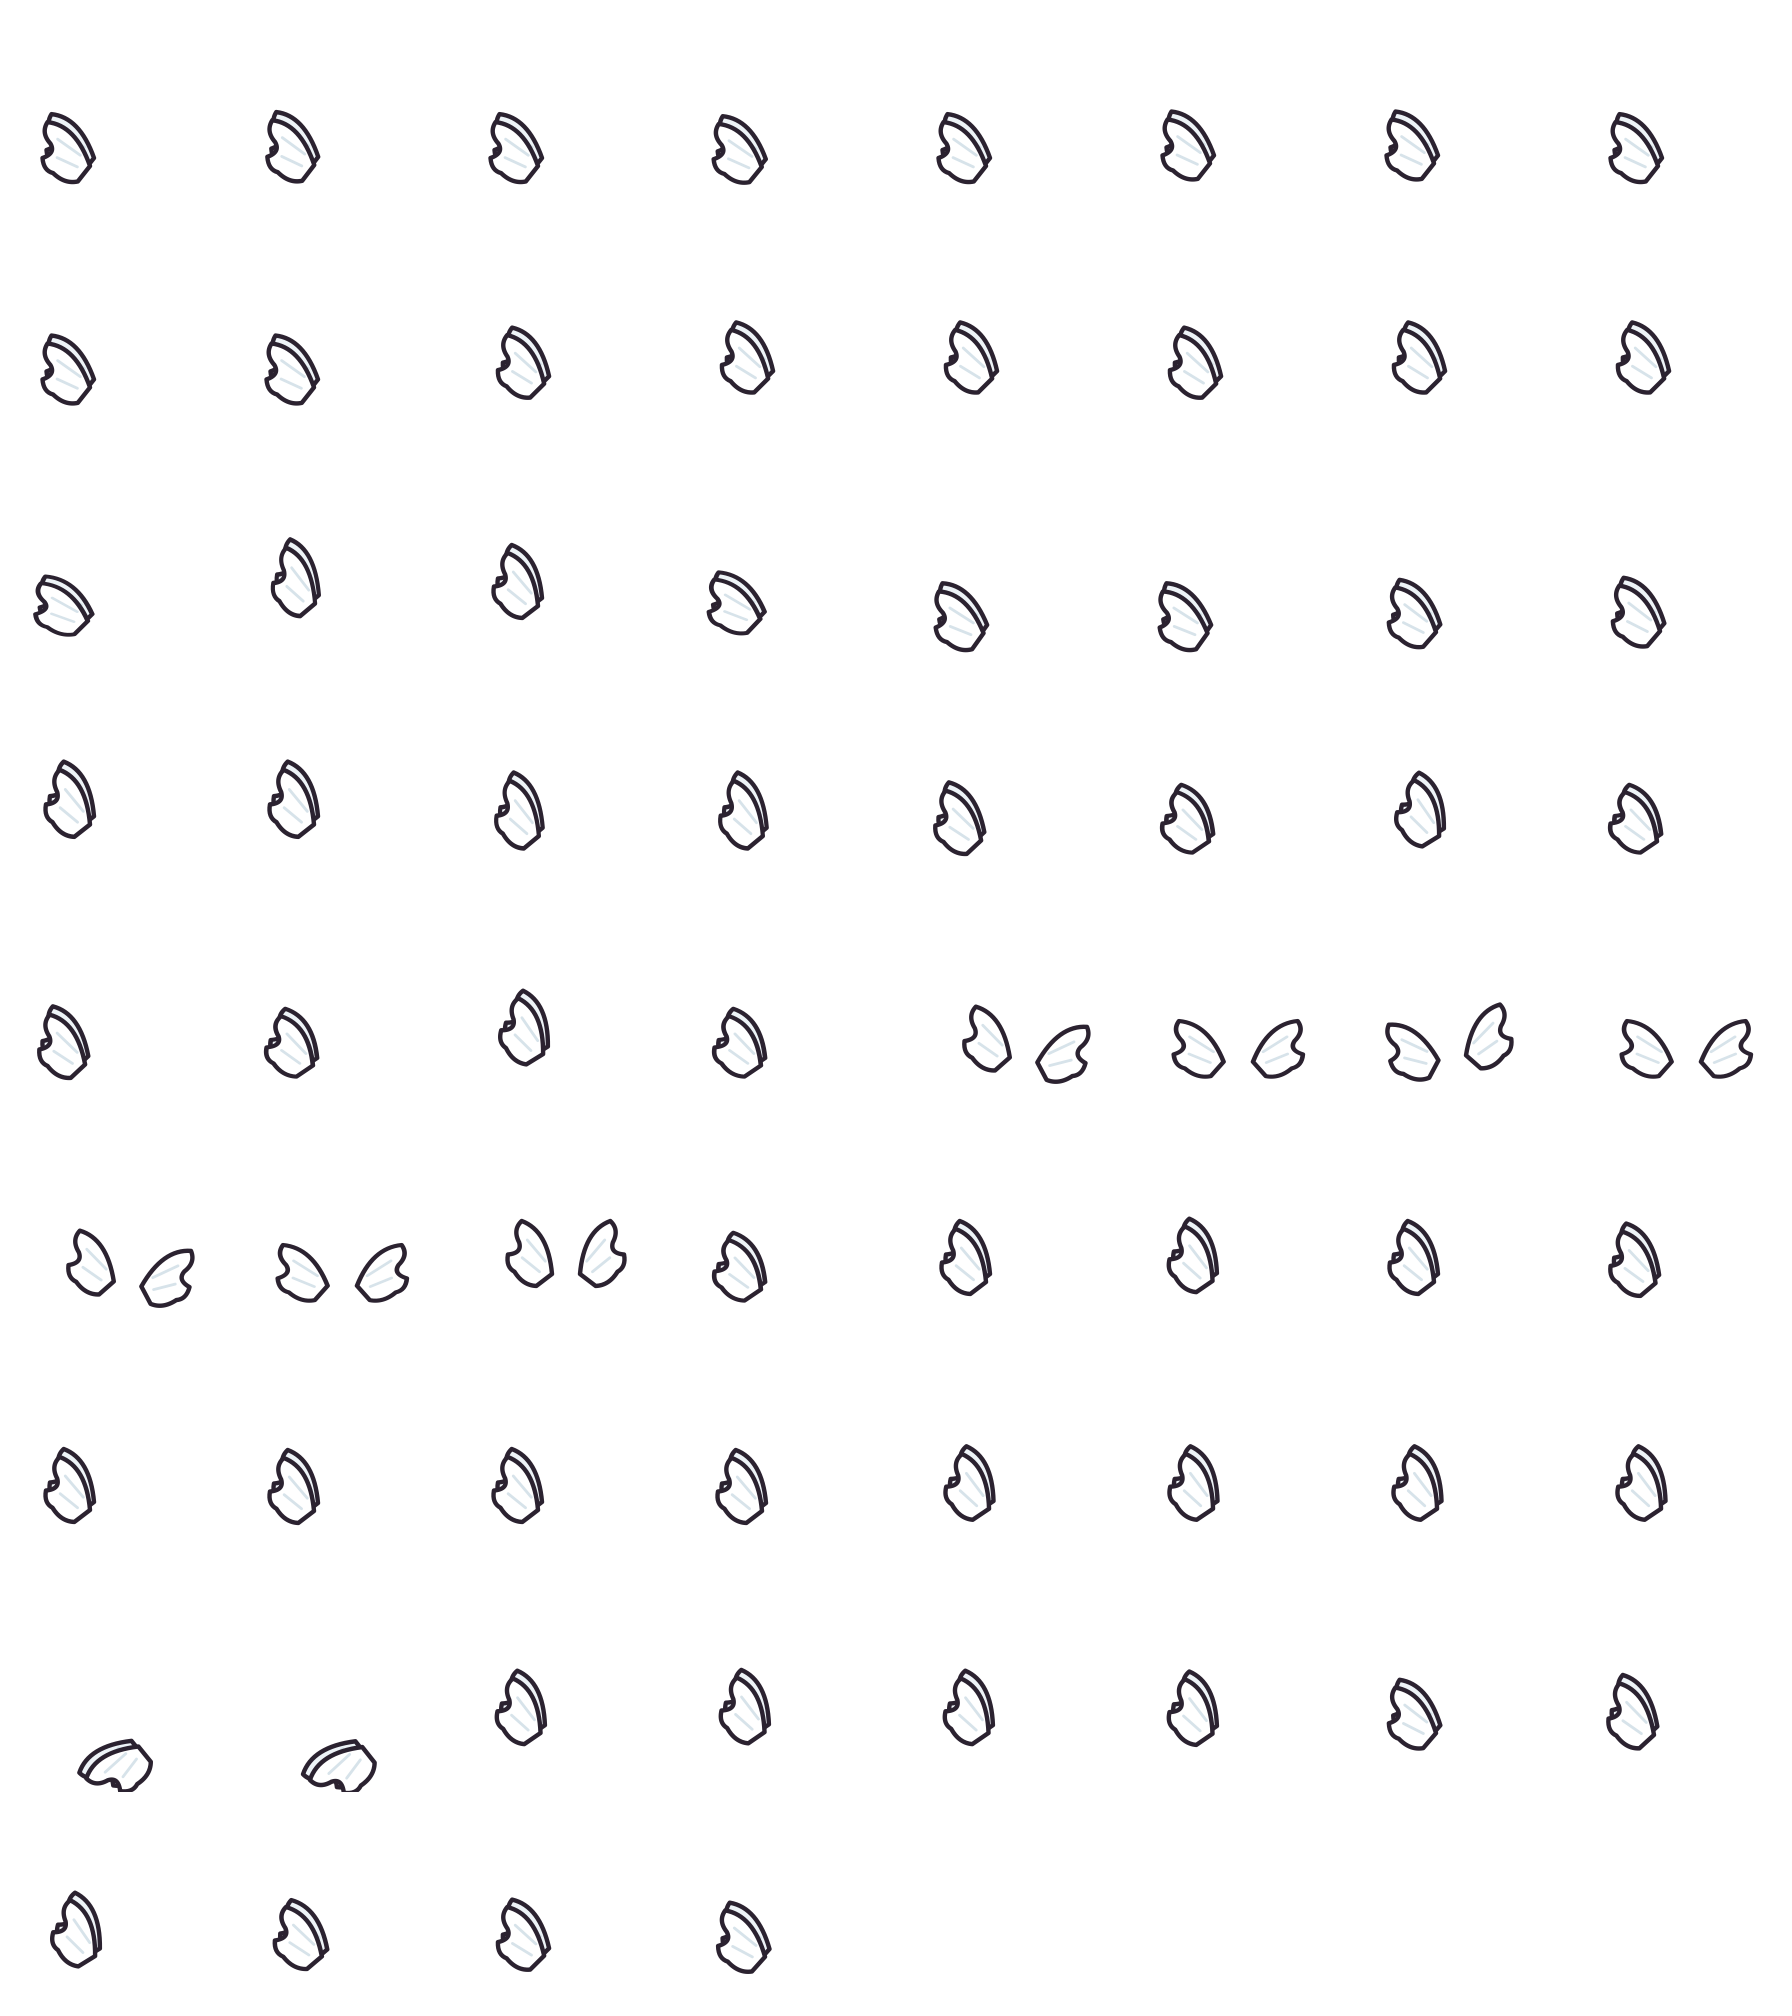
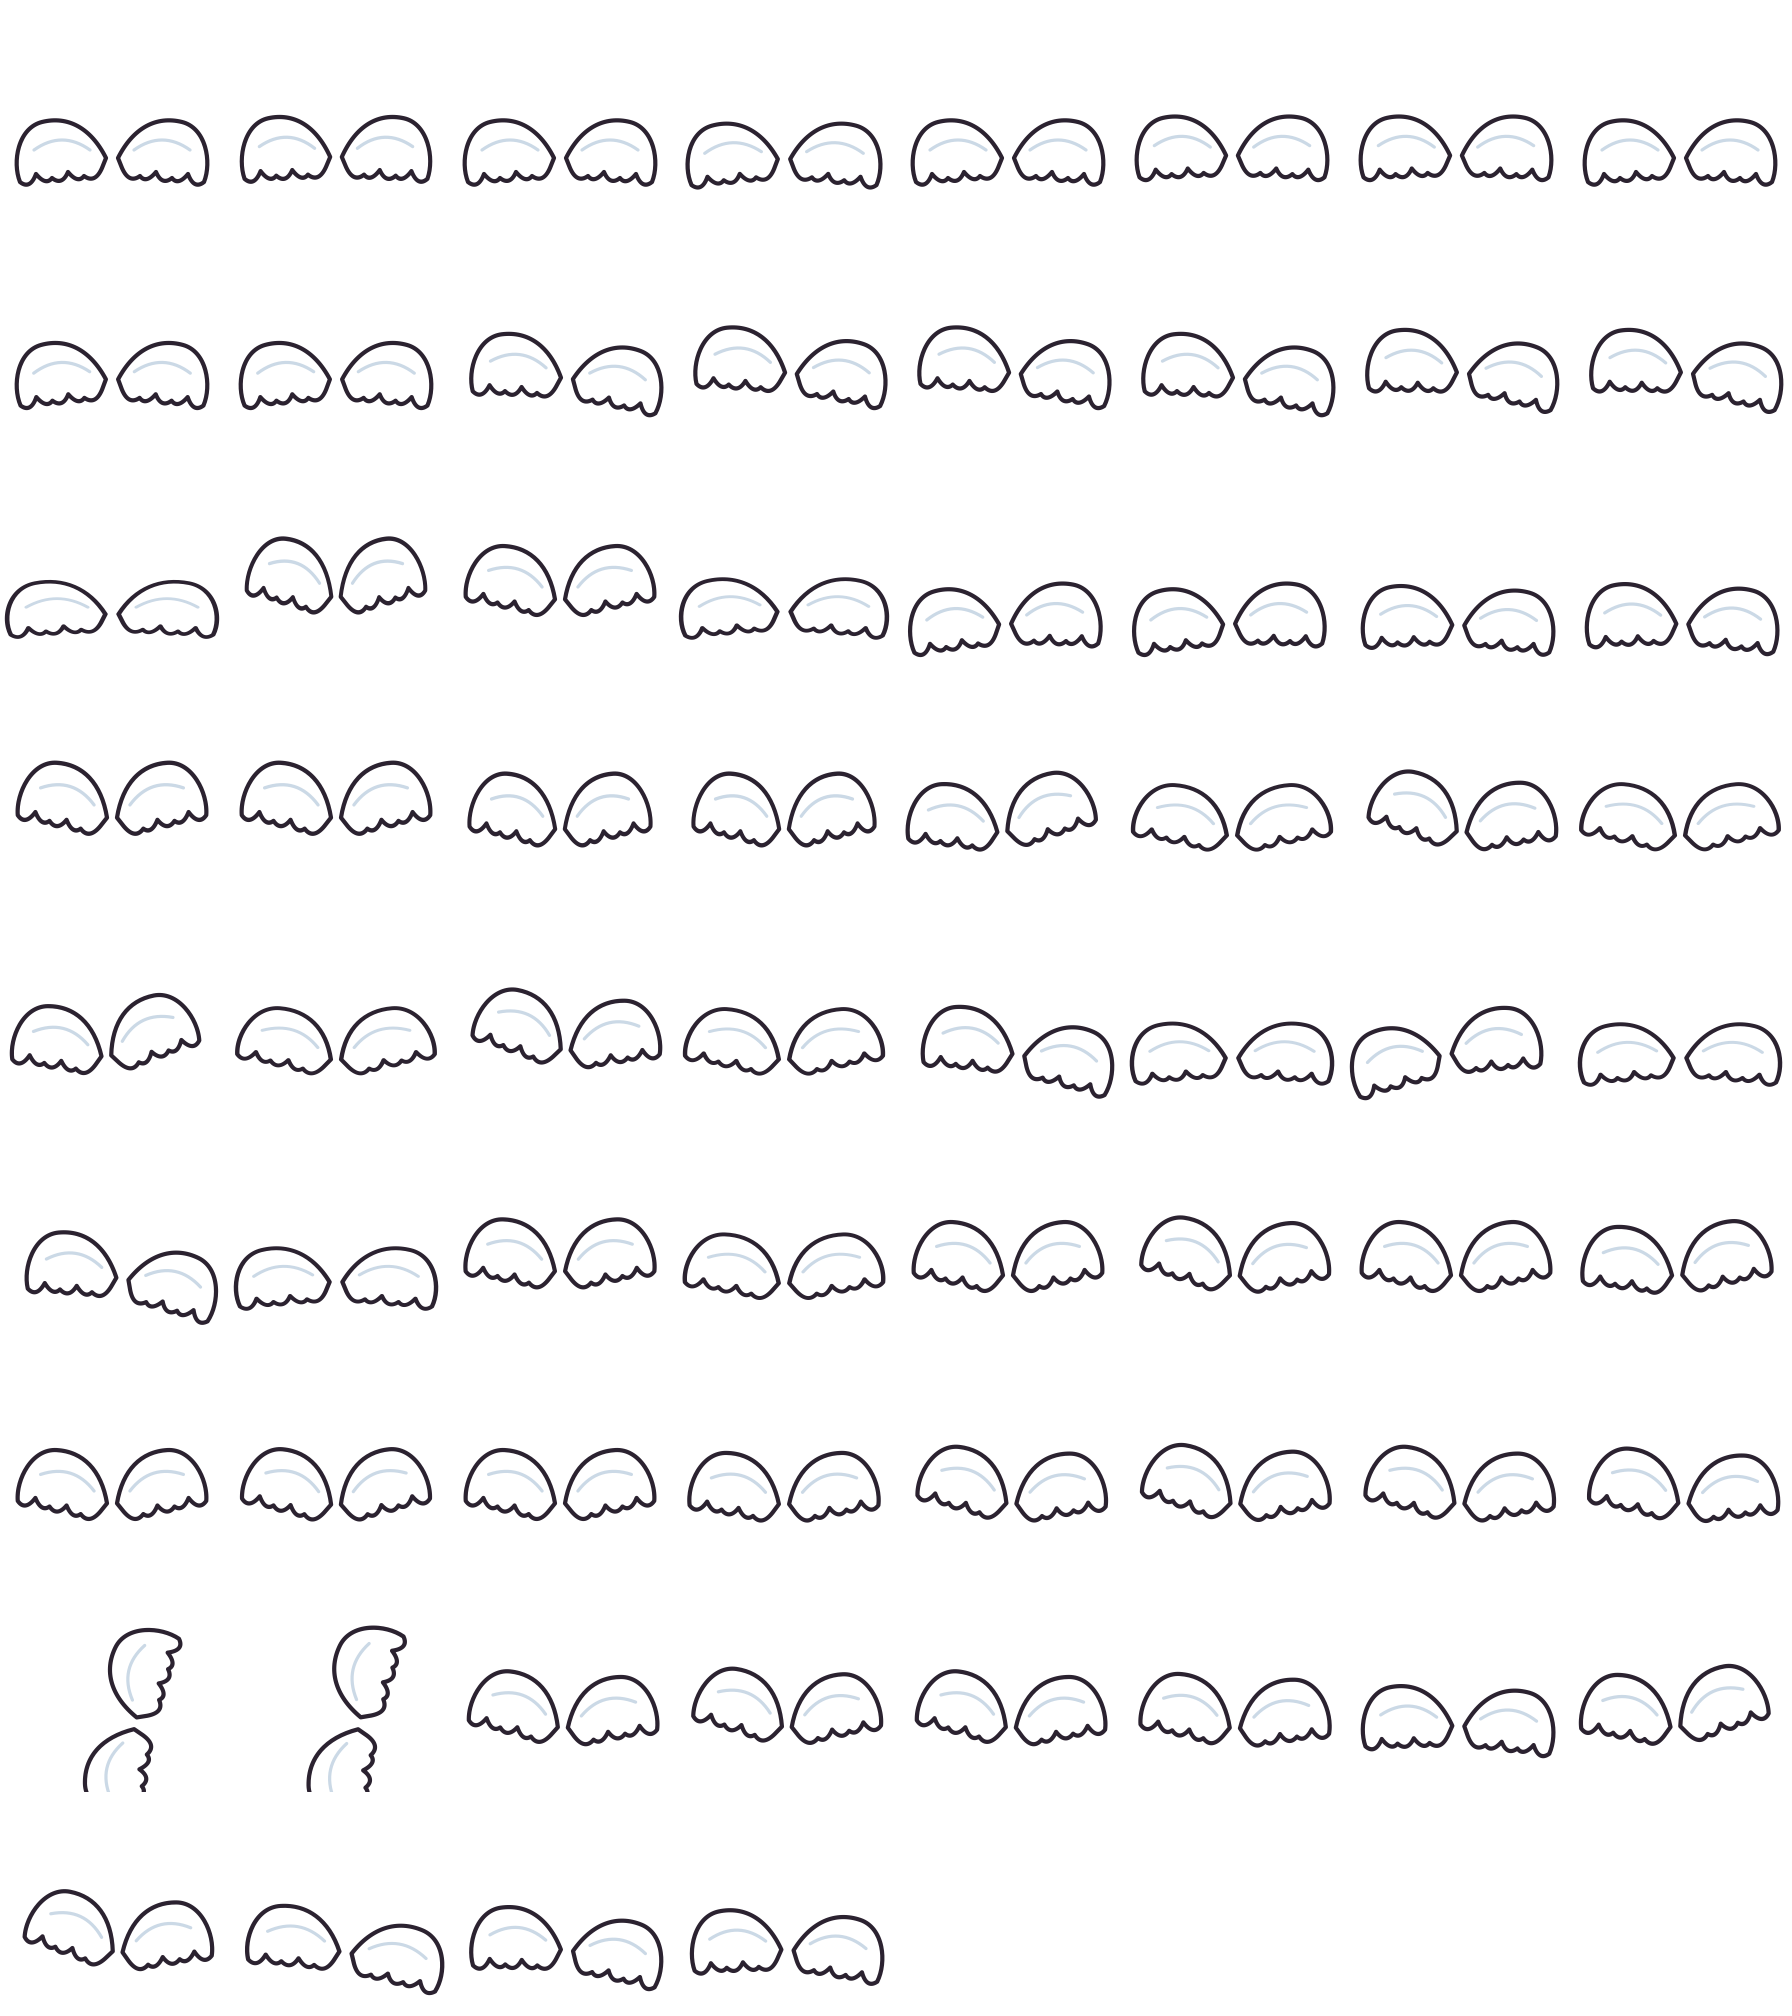
Redraw the angel wings as wide arches from her shoulders

diff --git a/Tools/generate-bunny.swift b/Tools/generate-bunny.swift
@@ -1352,37 +1352,7 @@ let outfits: [Outfit] = [
         }
     },
     Outfit(id: "wings", name: "天使翅膀", slot: "back") { ctx, p in
-        // 跳起來、被抓、往下掉時翅膀張開一點
-        let spread: CGFloat = raised(p.armFront) || raised(p.armBack) ? 0.25 : 0
-        func wing(_ root: CGPoint, _ dir: CGFloat, _ color: CGColor) {
-            withState(ctx, { c in
-                c.translateBy(x: root.x, y: root.y)
-                c.rotate(by: (-0.25 - spread) * dir)   // 翼尖往上翹
-                c.scaleBy(x: dir, y: 1)
-            }) {
-                let w = CGMutablePath()
-                w.move(to: .zero)
-                w.addQuadCurve(to: CGPoint(x: -26, y: 16), control: CGPoint(x: -12, y: 18))
-                w.addQuadCurve(to: CGPoint(x: -22, y: 6), control: CGPoint(x: -28, y: 10))
-                w.addQuadCurve(to: CGPoint(x: -24, y: -2), control: CGPoint(x: -18, y: 2))
-                w.addQuadCurve(to: CGPoint(x: -17, y: -8), control: CGPoint(x: -22, y: -8))
-                w.addQuadCurve(to: CGPoint(x: -4, y: -9), control: CGPoint(x: -10, y: -12))
-                w.closeSubpath()
-                shape(ctx, w, color)
-                for (a, b) in [(CGPoint(x: -6, y: 4), CGPoint(x: -19, y: 9)), (CGPoint(x: -6, y: -2), CGPoint(x: -17, y: 0))] {
-                    line(ctx, segment(a, b), hex(0xD7E3EA), width: 1.4)
-                }
-            }
-        }
-        withState(ctx, upper(p)) {
-            if p.back {
-                wing(CGPoint(x: 44, y: 31), 1, white)
-                wing(CGPoint(x: 58, y: 31), -1, white)
-            } else {
-                wing(CGPoint(x: 39, y: 33), 1, hex(0xEDF3F7))   // 遠的那片，高一點
-                wing(CGPoint(x: 37, y: 29), 1, white)
-            }
-        }
+        drawAngelWings(ctx, p)
         // 正面時 App 把翅膀疊在本體下面（behind），身體自然會蓋住它，不用挖
     },
     Outfit(id: "vip_wings", name: "VIP 星耀之翼", slot: "back") { ctx, p in
@@ -1391,6 +1361,47 @@ let outfits: [Outfit] = [
         if p.back { drawVIPGem(ctx, p) }   // 背對時鑽石鑲在背上
     },
 ]
+
+// 天使翅膀：左右各一片大大的拱形，從肩膀往外攤開。
+//   上緣從肩膀拱起來、在翅膀中段最高，到外側圓圓地垂下來；下緣是一排小波浪（羽毛尖），收回腰側。
+//   每格輕輕拍一下；跳起來、被抓、往下掉時往上舉。
+func drawAngelWings(_ ctx: CGContext, _ p: Pose) {
+    let phase = 2 * .pi * CGFloat(p.frame) / CGFloat(max(p.frameCount, 1))
+    let excited = raised(p.armFront) || raised(p.armBack)
+    let lift: CGFloat = excited ? 0.3 + 0.04 * sin(phase) : 0.03 * sin(phase)
+
+    func wing(_ root: CGPoint, _ dir: CGFloat) {
+        withState(ctx, { c in
+            c.translateBy(x: root.x, y: root.y)
+            c.scaleBy(x: dir, y: 1)
+            c.rotate(by: -lift)
+        }) {
+            let w = CGMutablePath()
+            w.move(to: CGPoint(x: 2, y: 2))
+            // 上緣：拱起來再往外圓圓地垂下
+            w.addCurve(to: CGPoint(x: -30, y: 20), control1: CGPoint(x: -6, y: 18), control2: CGPoint(x: -18, y: 23))
+            w.addCurve(to: CGPoint(x: -41, y: -10), control1: CGPoint(x: -42, y: 17), control2: CGPoint(x: -45, y: 0))
+            // 下緣：一排往下尖的小波浪，回到腰側
+            let wave = [CGPoint(x: -41, y: -10), CGPoint(x: -33, y: -6), CGPoint(x: -25, y: -8),
+                        CGPoint(x: -17, y: -5), CGPoint(x: -9, y: -7), CGPoint(x: 0, y: -3)]
+            for (a, b) in zip(wave, wave.dropFirst()) {
+                w.addQuadCurve(to: b, control: CGPoint(x: (a.x + b.x) / 2 + 1, y: min(a.y, b.y) - 4))
+            }
+            w.closeSubpath()
+            shape(ctx, w, white, lineWidth: 2.1)
+            // 裡面淡淡的一道羽毛線，順著上緣
+            let c = CGMutablePath()
+            c.move(to: CGPoint(x: -6, y: 6))
+            c.addQuadCurve(to: CGPoint(x: -34, y: 6), control: CGPoint(x: -20, y: 16))
+            line(ctx, c, hex(0xCBD9E6), width: 1.6)
+        }
+    }
+
+    withState(ctx, upper(p)) {
+        wing(CGPoint(x: 43, y: 31), 1)
+        wing(CGPoint(x: 53, y: 31), -1)
+    }
+}
 
 // MARK: - 外觀：髮型與服裝（純外觀，不加戰鬥力）
 //
